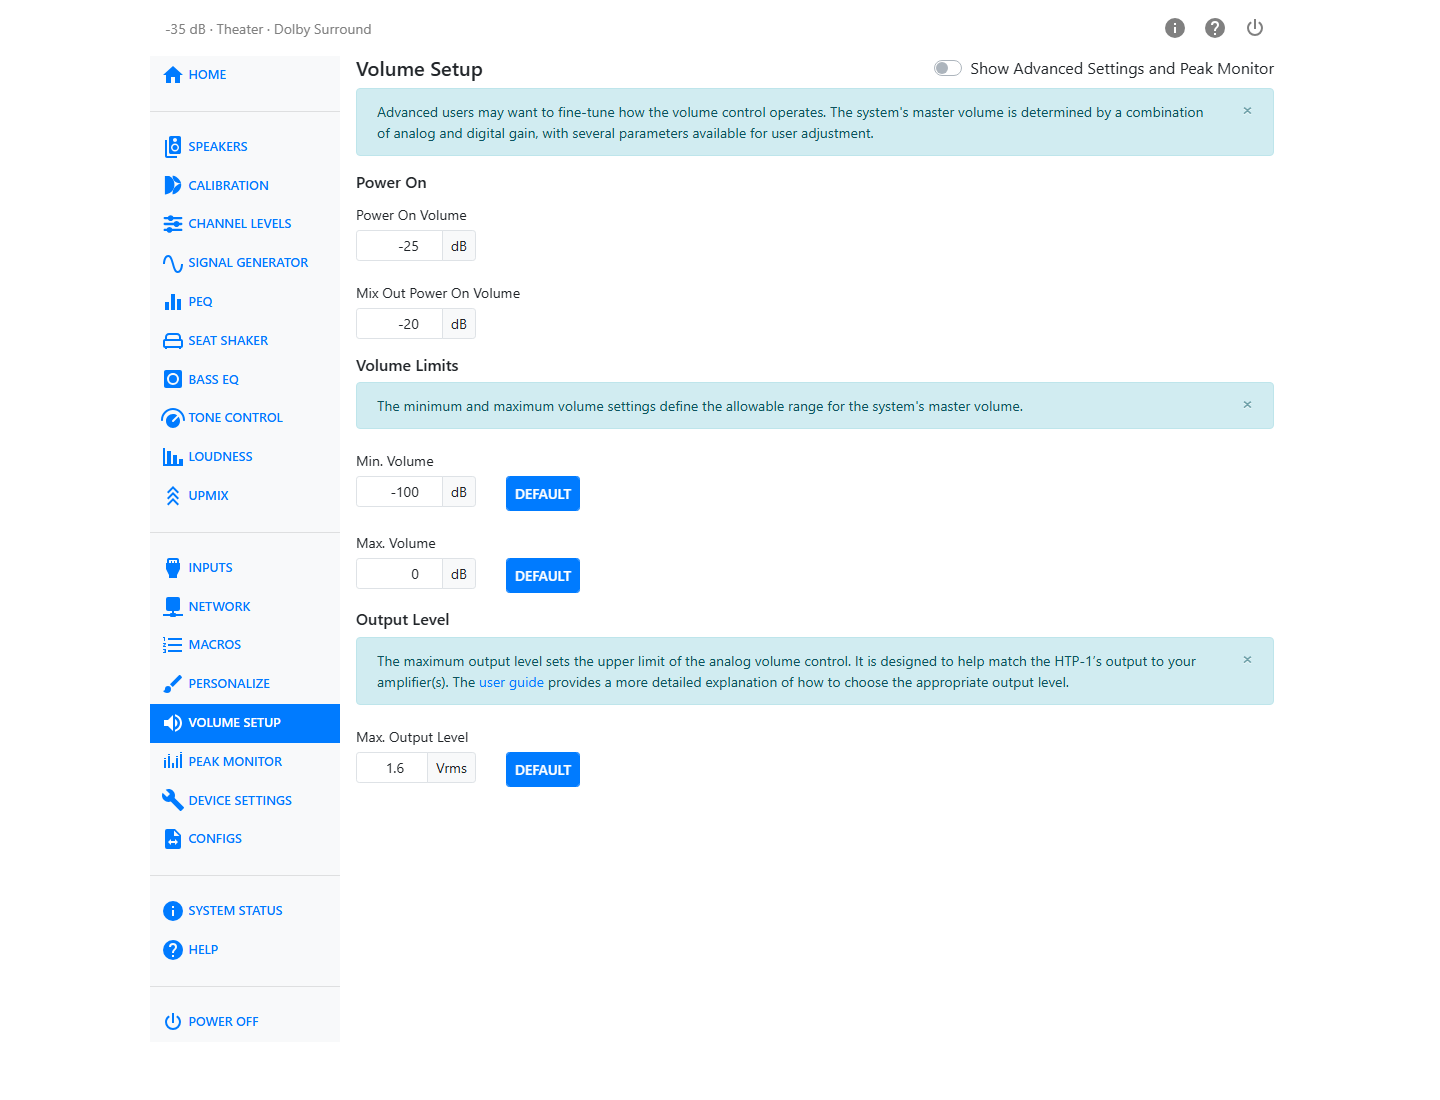
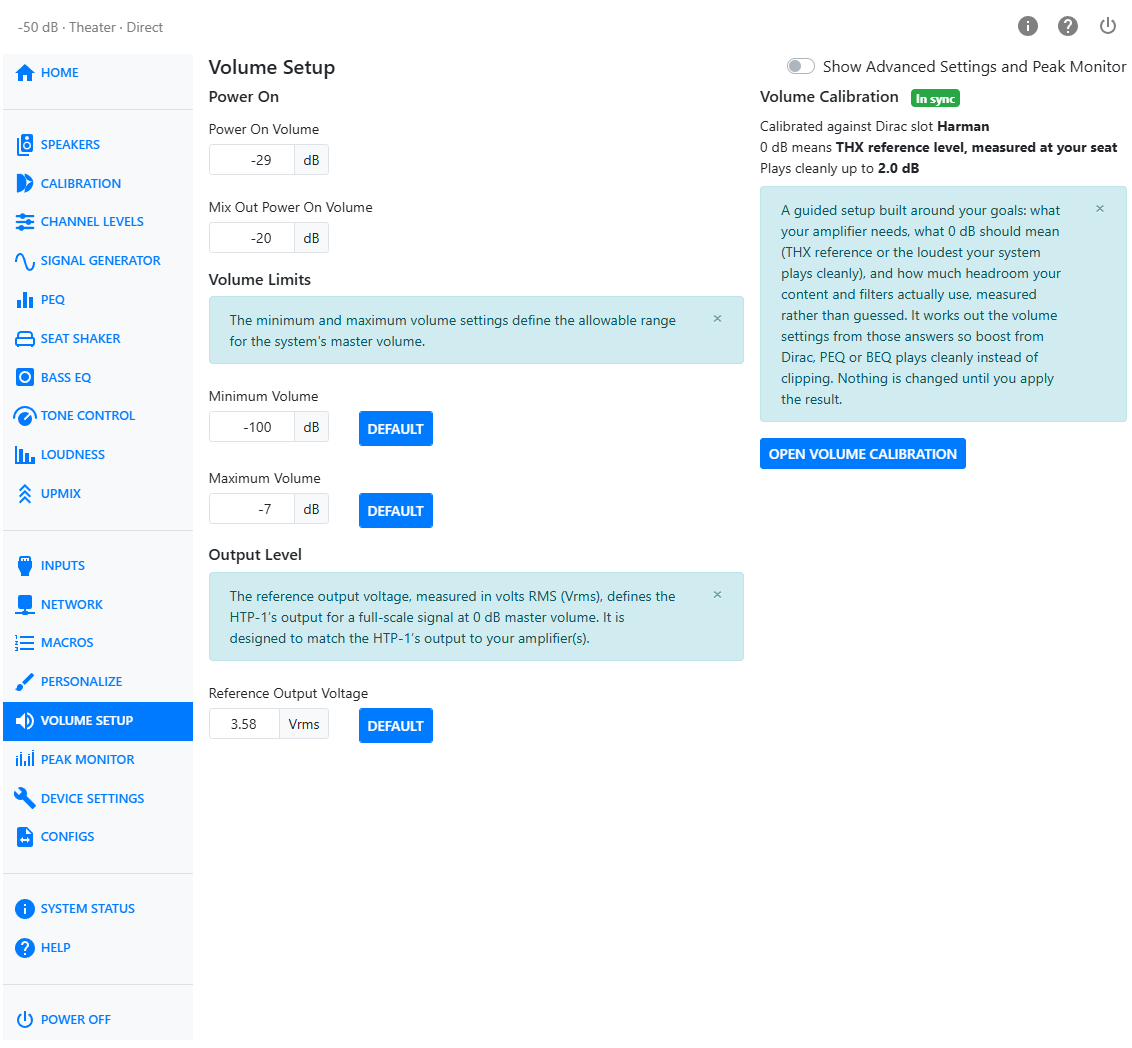
Add screenshots for the Volume Calibration guide and refresh the Volume Setup page image

diff --git a/docs/user-guide/volume-calibration.md b/docs/user-guide/volume-calibration.md
@@ -4,6 +4,8 @@
 
 The wizard is opened from the **Volume Calibration** section of [Volume Setup](volume-setup.md). The individual settings remain available there for anyone who wants to inspect or adjust them manually; a calibration is a starting point, not a lock.
 
+![Volume Calibration wizard summary step listing the four derived settings with the reasoning for each](images/ui-volume-calibration.png)
+
 ## Before You Start
 
 - Run Volume Calibration **after** Dirac Live calibration. Its measurements are taken through your active filters, so a new Dirac calibration calls for a new measurement.

diff --git a/docs/user-guide/volume-setup.md b/docs/user-guide/volume-setup.md
@@ -2,7 +2,7 @@
 
 The HTP-1 uses a combination of analog and digital gain to implement the master volume. **Volume Setup** lets you configure the power-on volume, allowable volume range, **Reference Output Voltage**, and digital headroom that determine how the volume control behaves.
 
-![Volume Setup page showing Power On, Volume Limits, and Output Level controls](images/ui-volume-setup.png)
+![Volume Setup page showing Power On, Volume Limits, and Output Level controls, with the Volume Calibration status alongside](images/ui-volume-setup.png)
 
 ## Volume Calibration
 
